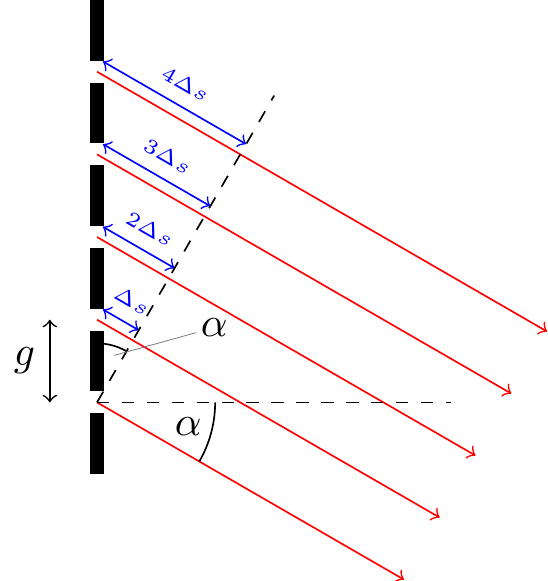
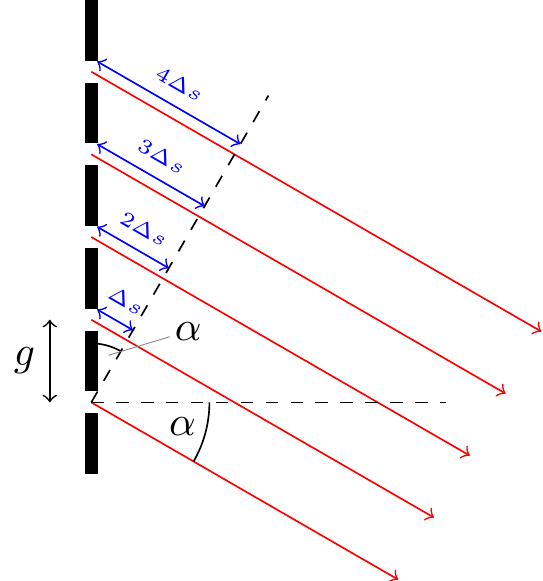
remove more magic numbers

diff --git a/optics/diffraction-grating-schematic-2/diffraction-grating-schematic-2.tex b/optics/diffraction-grating-schematic-2/diffraction-grating-schematic-2.tex
@@ -20,31 +20,32 @@
   \pgfmathsetmacro{\gratingwidth}{0.1};
   \pgfmathsetmacro{\gratingdistance}{0.2};
   \pgfmathsetmacro{\angle}{-30};
+  \pgfmathsetmacro{\raylength}{3};
   % grating
   \foreach \Y in {0,\gratinglength,...,4.0} {%
     \draw[fill] ({-\gratingwidth/2},\Y) rectangle ({\gratingwidth/2},\Y+0.5);
   }
-  % rays
-  \foreach \m in {0,...,4} {%
-    \draw[red,->] (0,{\m*\gratinglength + (\gratinglength - \gratingdistance/2)}) -- ++ ({\angle}:{3+\m*\gratinglength*sin(30)});
-  }
-  % distances
   \begin{scope}[shift={(0,{\gratinglength - \gratingdistance/2})},rotate={\angle}]
+    % distances
     \draw[<->,blue] (0,{\gratinglength*cos(\angle)+0.1}) -- ++ ({\gratinglength*sin(\angle)},0) node[midway,above,rotate={\angle}] {\tiny $\Delta s$};
     \foreach \m in {2,...,4} {%
       \draw[<->,blue] (0,{\m*\gratinglength*cos(\angle)+0.1}) -- ++ ({\m*\gratinglength*sin(\angle)},0) node[midway,above,rotate={\angle}] {\tiny $\m\Delta s$};
     }
+    % rays
+    \foreach \m in {0,...,4} {%
+      \draw[red,->] ({\m*\gratinglength*sin(\angle)},{\m*\gratinglength*cos(\angle)}) -- ++ ({\raylength-\m*\gratinglength*sin(\angle)},0);
+    }
   \end{scope}
   % angle 1
   \coordinate (O) at (0,{\gratinglength - \gratingdistance/2});
-  \coordinate (R) at ($(O)+({\angle}:{3+\gratinglength*sin(30)})$);
-  \draw[dashed] (O) -- ++ (3,0) coordinate (A1);
+  \coordinate (R) at ($(O)+({\angle}:{\raylength+\gratinglength*sin(\angle)})$);
+  \draw[dashed] (O) -- ++ ({\raylength},0) coordinate (A1);
   \pic[draw,pic text={$\alpha$},angle radius=1cm,angle eccentricity=0.8] {angle = R--O--A1};
   % angle 2
   \coordinate (G) at (0,1);
-  \draw[dashed] (0,0.6) -- ++ (60:3) coordinate (A2);
-  \pic[draw,pic text={},pic text options={pin={[pin distance=2em]10:{$\alpha$}}},inner sep=1pt,angle radius=0.5cm,angle eccentricity=0.8] {angle = A2--O--G};
+  \draw[dashed] (O) -- ++ ({90+\angle}:{\raylength}) coordinate (A2);
+  \pic[draw,pic text={},pic text options={pin={[pin distance=1.5em]10:{$\alpha$}}},inner sep=1pt,angle radius=0.5cm,angle eccentricity=0.8] {angle = A2--O--G};
   %
-  \draw[<->] (-0.4,{\gratinglength - \gratingdistance/2}) -- node[left] {$g$} ++ (0,{\gratinglength});
+  \draw[<->] (-1em,{\gratinglength - \gratingdistance/2}) -- node[left] {$g$} ++ (0,{\gratinglength});
 \end{tikzpicture}
 \end{document}

diff --git a/optics/diffraction-grating-schematic-2/diffraction-grating-schematic-2_inverted.tex b/optics/diffraction-grating-schematic-2/diffraction-grating-schematic-2_inverted.tex
@@ -29,31 +29,32 @@
   \pgfmathsetmacro{\gratingwidth}{0.1};
   \pgfmathsetmacro{\gratingdistance}{0.2};
   \pgfmathsetmacro{\angle}{-30};
+  \pgfmathsetmacro{\raylength}{3};
   % grating
   \foreach \Y in {0,\gratinglength,...,4.0} {%
     \draw[fill] ({-\gratingwidth/2},\Y) rectangle ({\gratingwidth/2},\Y+0.5);
   }
-  % rays
-  \foreach \m in {0,...,4} {%
-    \draw[red,->] (0,{\m*\gratinglength + (\gratinglength - \gratingdistance/2)}) -- ++ ({\angle}:{3+\m*\gratinglength*sin(30)});
-  }
-  % distances
   \begin{scope}[shift={(0,{\gratinglength - \gratingdistance/2})},rotate={\angle}]
+    % distances
     \draw[<->,blue] (0,{\gratinglength*cos(\angle)+0.1}) -- ++ ({\gratinglength*sin(\angle)},0) node[midway,above,rotate={\angle}] {\tiny $\Delta s$};
     \foreach \m in {2,...,4} {%
       \draw[<->,blue] (0,{\m*\gratinglength*cos(\angle)+0.1}) -- ++ ({\m*\gratinglength*sin(\angle)},0) node[midway,above,rotate={\angle}] {\tiny $\m\Delta s$};
     }
+    % rays
+    \foreach \m in {0,...,4} {%
+      \draw[red,->] ({\m*\gratinglength*sin(\angle)},{\m*\gratinglength*cos(\angle)}) -- ++ ({\raylength-\m*\gratinglength*sin(\angle)},0);
+    }
   \end{scope}
   % angle 1
   \coordinate (O) at (0,{\gratinglength - \gratingdistance/2});
-  \coordinate (R) at ($(O)+({\angle}:{3+\gratinglength*sin(30)})$);
-  \draw[dashed] (O) -- ++ (3,0) coordinate (A1);
+  \coordinate (R) at ($(O)+({\angle}:{\raylength+\gratinglength*sin(\angle)})$);
+  \draw[dashed] (O) -- ++ ({\raylength},0) coordinate (A1);
   \pic[draw,pic text={$\alpha$},angle radius=1cm,angle eccentricity=0.8] {angle = R--O--A1};
   % angle 2
   \coordinate (G) at (0,1);
-  \draw[dashed] (0,0.6) -- ++ (60:3) coordinate (A2);
-  \pic[draw,pic text={},pic text options={pin={[pin distance=2em]10:{$\alpha$}}},inner sep=1pt,angle radius=0.5cm,angle eccentricity=0.8] {angle = A2--O--G};
+  \draw[dashed] (O) -- ++ ({90+\angle}:{\raylength}) coordinate (A2);
+  \pic[draw,pic text={},pic text options={pin={[pin distance=1.5em]10:{$\alpha$}}},inner sep=1pt,angle radius=0.5cm,angle eccentricity=0.8] {angle = A2--O--G};
   %
-  \draw[<->] (-0.4,{\gratinglength - \gratingdistance/2}) -- node[left] {$g$} ++ (0,{\gratinglength});
+  \draw[<->] (-1em,{\gratinglength - \gratingdistance/2}) -- node[left] {$g$} ++ (0,{\gratinglength});
 \end{tikzpicture}
 \end{document}
